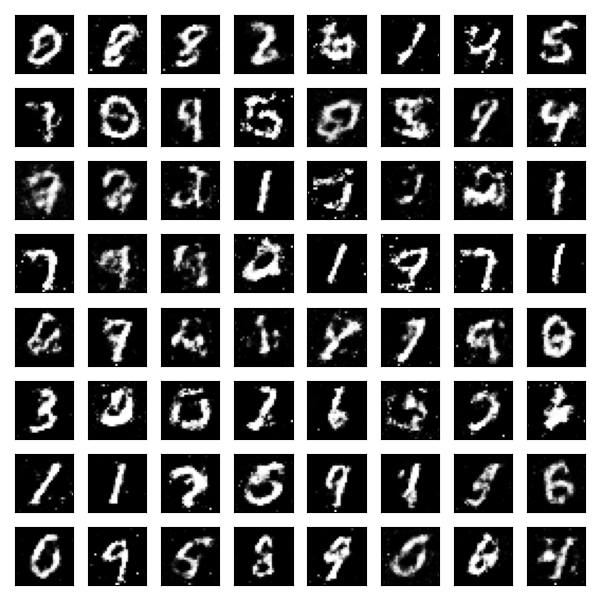
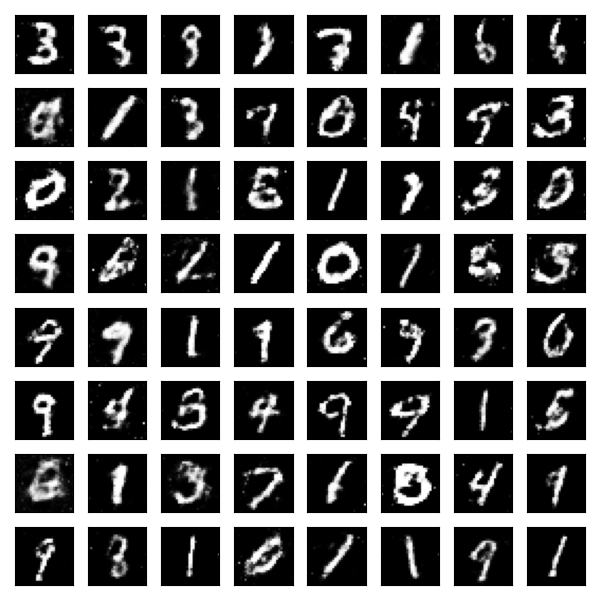
completed GANs and ARs

diff --git a/models/AR.py b/models/AR.py
@@ -17,12 +17,22 @@ class MaskedConv2d(nn.Conv2d):
         # Make sure to zero out all “future” pixels in raster order.
         ############################
 
+        kh, kw = self.kernel_size
+        yc, xc = kh // 2, kw // 2 # center position
+
+        self.mask.fill_(1)
+        self.mask[:, :, yc+1:, :] = 0
+        self.mask[:, :, yc, xc+1:] = 0
+
+        if mask_type == 'A':
+            self.mask[:, :, yc, xc] = 0
+
     def forward(self, x):
         ############################
         # TODO: Multiply the weight tensor (self.weight) by the mask (self.mask) before convolution.
         # Then perform normal convolution.
         ############################
-        masked_weight = None
+        masked_weight = self.weight * self.mask
         
         out = F.conv2d(x, masked_weight, self.bias, self.stride, self.padding, self.dilation, self.groups)
         return out
@@ -40,10 +50,32 @@ class PixelCNN(nn.Module):
         # - You are also welcome to explore residual connections as original paper but not required to do so
         ############################
 
+        self.model = nn.Sequential(
+            MaskedConv2d('A', 1, 64, kernel_size=7, padding=3),
+            nn.ReLU(),
+
+            MaskedConv2d('B', 64, 64, kernel_size=7, padding=3),
+            nn.ReLU(),
+
+            MaskedConv2d('B', 64, 64, kernel_size=7, padding=3),
+            nn.ReLU(),
+
+            MaskedConv2d('B', 64, 64, kernel_size=7, padding=3),
+            nn.ReLU(),
+
+            MaskedConv2d('B', 64, 64, kernel_size=7, padding=3),
+            nn.ReLU(),
+
+            nn.Conv2d(64, 1, kernel_size=1)
+        )
+
         ############################
         # TODO: Final output layer
         # - 1x1 convolution mapping from hidden channels -> 1 channel (for binary MNIST pixels)
         ############################
+
+        # Already included in self.model above
+
 
     def forward(self, x):
         """
@@ -52,7 +84,7 @@ class PixelCNN(nn.Module):
         ############################
         # TODO: Forward pass through network
         ############################
-        out = None
+        out = self.model(x)
         return out
 
 class ConditionalMaskedConv2d(nn.Conv2d):
@@ -69,25 +101,35 @@ class ConditionalMaskedConv2d(nn.Conv2d):
         # (same as in MaskedConv2d)
         ############################
 
+        kh, kw = self.kernel_size
+        yc, xc = kh // 2, kw // 2 # center position
+
+        self.mask.fill_(1)
+        self.mask[:, :, yc+1:, :] = 0
+        self.mask[:, :, yc, xc+1:] = 0
+
+        if mask_type == 'A':
+            self.mask[:, :, yc, xc] = 0
+
         ############################
         # TODO: Add class-conditioning
         # - Create a learnable projection (V) from one-hot class labels into out_channels
         # - Store it as self.class_emb (e.g. a Linear layer)
         ############################
+        self.class_emb = nn.Linear(num_classes, out_channels)
 
     def forward(self, x, y):
         ############################
         # TODO: Multiply the weight tensor (self.weight) by the mask (self.mask) before convolution. Then perform normal convolution.
         # This is same as MaskedConv2d
         ############################
-        masked_weight = None
+        masked_weight = self.weight * self.mask
         out = F.conv2d(x, masked_weight, self.bias, self.stride, self.padding, self.dilation, self.groups)
 
         ############################
         # TODO: Compute class-dependent bias = V*y --> Shape: (N, out_channels)
         ############################
-        cond_bias = None
-        
+        cond_bias = self.class_emb(y)
         out = out + cond_bias[:, :, None, None]  # Broadcast spatially and add to convolution output
         return out
 
@@ -102,10 +144,30 @@ class ConditionalPixelCNN(nn.Module):
         # - Add ReLU and BatchNorm as desired
         ############################
 
+        self.layers = nn.ModuleList([
+            ConditionalMaskedConv2d('A', 1, 64, kernel_size=7, padding=3, num_classes=num_classes),
+            nn.ReLU(),
+
+            ConditionalMaskedConv2d('B', 64, 64, kernel_size=7, padding=3, num_classes=num_classes),
+            nn.ReLU(),
+
+            ConditionalMaskedConv2d('B', 64, 64, kernel_size=7, padding=3, num_classes=num_classes),
+            nn.ReLU(),
+
+            ConditionalMaskedConv2d('B', 64, 64, kernel_size=7, padding=3, num_classes=num_classes),
+            nn.ReLU(),
+
+            ConditionalMaskedConv2d('B', 64, 64, kernel_size=7, padding=3, num_classes=num_classes),
+            nn.ReLU(),
+        ])
+
         ############################
         # TODO: Final output layer
         # - 1x1 conv mapping from hidden channels -> 1 channel
         ############################
+
+        self.output_conv = nn.Conv2d(64, 1, kernel_size=1)
+        
 
     def forward(self, x, y):
         """
@@ -117,5 +179,13 @@ class ConditionalPixelCNN(nn.Module):
         # - For ConditionalMaskedConv2d, pass both (x, y)
         # - For other layers, just pass x
         ############################
-        out = None
+        out = x
+        for layer in self.layers:
+            if isinstance(layer, ConditionalMaskedConv2d):
+                out = layer(out, y)
+            else:
+                out = layer(out)
+
+        out = self.output_conv(out)
+
         return out

diff --git a/hw2_step2_main.py b/hw2_step2_main.py
@@ -4,11 +4,23 @@ from torchvision import datasets
 from torchvision import transforms
 from tqdm import tqdm
 import matplotlib.pyplot as plt
+import numpy as np
 
 from models.AR import PixelCNN, ConditionalPixelCNN
 
+def monitor_losses(epoch_losses):
+    plt.figure(figsize=(10, 5))
+    epochs = np.arange(len(epoch_losses))
+    plt.plot(epochs, epoch_losses, label='Training Loss')
+    plt.xlabel('Epochs')
+    plt.ylabel('Loss')
+    plt.legend()
+    plt.savefig("ar_results/loss_monitoring.png")
+    plt.close()
+
 def train(dataloader, model, optimizer, epochs, train_dataset, loss_fn, batch_size, conditioning_flag, device):
 
+    epoch_loss = []
     for epoch in tqdm(range(epochs), desc='Epochs'):
         running_loss = 0.0
         batch_progress = tqdm(dataloader, desc='Batches', leave=False)
@@ -30,6 +42,8 @@ def train(dataloader, model, optimizer, epochs, train_dataset, loss_fn, batch_si
             running_loss += loss.item()
             avg_loss = running_loss * batch_size / len(train_dataset)
 
+        epoch_loss.append(avg_loss)
+        monitor_losses(epoch_loss)
         tqdm.write(f'----\nEpoch [{epoch+1}/{epochs}], Average Loss: {avg_loss:.4f}\n')
 
 def binarize_image(tensor):
@@ -40,10 +54,10 @@ def main():
     print(device)
     
     batch_size = 128
-    num_epochs = None                       # TODO: Set an appropriate number of epochs (e.g., 20–50+ for ARs). Try multiple values and compare results.
-    learning_rate = None                    # TODO: Set the learning rate. Experiment with different values and explain your choice in the report. 1e-4<LR<1e-2 should be a good 
-    conditioning_flag = False               # TODO: Change this for part-(d) of Step-2 
-    loss_fn = None                          # TODO: Set your loss function which is discussed in the HW PDF
+    num_epochs = 100                       # TODO: Set an appropriate number of epochs (e.g., 20–50+ for ARs). Try multiple values and compare results.
+    learning_rate = 1e-4                    # TODO: Set the learning rate. Experiment with different values and explain your choice in the report. 1e-4<LR<1e-2 should be a good 
+    conditioning_flag = True               # TODO: Change this for part-(d) of Step-2 
+    loss_fn = torch.nn.BCEWithLogitsLoss()  # TODO: Set your loss function which is discussed in the HW PDF
 
     tensor_transform = transforms.Compose([transforms.ToTensor(), transforms.Lambda(binarize_image)])
     train_dataset = datasets.MNIST(root = "./data",	train = True, download = True,	transform = tensor_transform)    
@@ -65,7 +79,7 @@ def main():
     samples = torch.zeros(size=(num_samples, 1, H, W), device=device)
     
     if conditioning_flag == True:
-        selected_num = None            # TODO: Choose between 0-9 (which number do you want to generate)
+        selected_num = 2            # TODO: Choose between 0-9 (which number do you want to generate)
         gen_labels = torch.full((num_samples,), selected_num, dtype=torch.long, device=device)  
         gen_labels_onehot = F.one_hot(gen_labels, num_classes=10).float()
 
@@ -88,7 +102,7 @@ def main():
         axes[r, c].axis("off")
 
     plt.tight_layout()
-    plt.savefig("imgs/pixelcnn_generated.png")
+    plt.savefig("ar_results/pixelcnn_generated.png")
     plt.close(fig)
 
 if __name__ == "__main__":

diff --git a/hw2_step1_main.py b/hw2_step1_main.py
@@ -91,11 +91,11 @@ def main():
     batch_size = 128
     dim_z = 100
     num_test_samples = 64
-    num_epochs = 100        # TODO: Set an appropriate number of epochs (e.g., 50–100+ for GANs). Try multiple values and compare results.
-    d_learning_rate = 2e-4   # TODO: Set the discriminator learning rate. Experiment with different values and explain your choice in the report. 1e-5<LR<1e-3 should be a good start
+    num_epochs = 300        # TODO: Set an appropriate number of epochs (e.g., 50–100+ for GANs). Try multiple values and compare results.
+    d_learning_rate = 1e-4   # TODO: Set the discriminator learning rate. Experiment with different values and explain your choice in the report. 1e-5<LR<1e-3 should be a good start
     g_learning_rate = 2e-4   # TODO: Set the generator learning rate. Experiment with different values and explain your choice in the report. 1e-5<LR<1e-3 should be a good start
     criterion = torch.nn.BCEWithLogitsLoss()         # TODO: Choose a suitable loss function. Justify your choice in the report.
-    d_freq = 1               # TODO: Modify this in part (c), bullet point #4 as instructed.
+    d_freq = 5               # TODO: Modify this in part (c), bullet point #4 as instructed.
 
     tensor_transform = transforms.Compose([transforms.ToTensor(), transforms.Normalize(mean=(0.5, ), std=(0.5, ))])
     train_dataset = datasets.MNIST(root = "./data",	train = True, download = True,	transform = tensor_transform)    

diff --git a/models/GAN.py b/models/GAN.py
@@ -36,7 +36,11 @@ class Discriminator(nn.Module):
         return out
 
 class Generator(nn.Module):
-    def __init__(self, dim_z=100, channels = [64, 128, 256]):
+    def __init__(self, dim_z=100, 
+                #  channels = [64, 128, 256]
+                # channels = [128, 256, 512]
+                channels = [64, 126, 256, 512]
+                 ):
         super().__init__()
         self.dim_z = dim_z
 
@@ -56,7 +60,10 @@ class Generator(nn.Module):
             nn.Linear(channels[1], channels[2]),
             nn.LeakyReLU(0.2, inplace=True),
 
-            nn.Linear(channels[2], 784),
+            nn.Linear(channels[2], channels[3]),
+            nn.LeakyReLU(0.2, inplace=True),
+
+            nn.Linear(channels[3], 784),
             nn.Tanh()
         )
 
